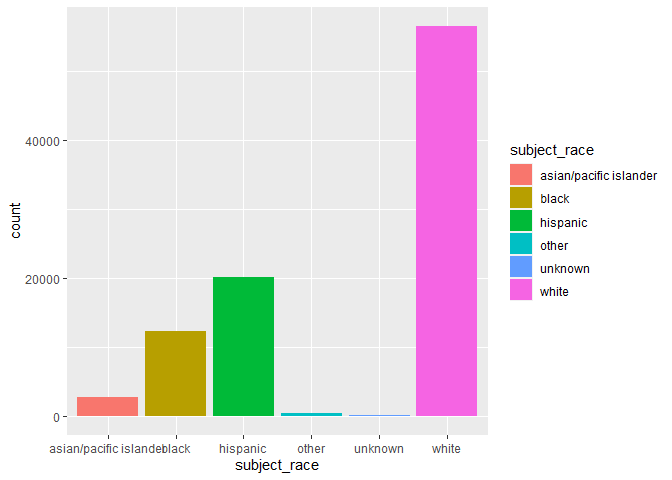
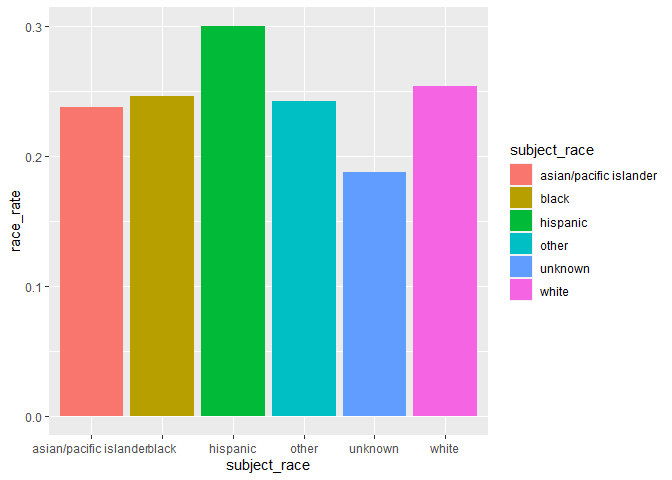
c12

diff --git a/challenges/c12-policing-assignment.md b/challenges/c12-policing-assignment.md
@@ -41,29 +41,28 @@ Massachusetts Highway Stops
       visuals (or tables) as you need, but make sure to check the trends
       across all of the <code>subject</code> variables. Answer the questions
       under <em>observations</em> below.</a>
-- <a href="#modeling" id="toc-modeling">Modeling</a>
-  - <a
-    href="#q6-run-the-following-code-and-interpret-the-regression-coefficients-answer-the-the-questions-under-observations-below"
-    id="toc-q6-run-the-following-code-and-interpret-the-regression-coefficients-answer-the-the-questions-under-observations-below"><strong>q6</strong>
-    Run the following code and interpret the regression coefficients. Answer
-    the the questions under <em>observations</em> below.</a>
-  - <a
-    href="#q7-re-fit-the-logistic-regression-from-q6-setting-white-as-the-reference-level-for-subject_race-interpret-the-the-model-terms-and-answer-the-questions-below"
-    id="toc-q7-re-fit-the-logistic-regression-from-q6-setting-white-as-the-reference-level-for-subject_race-interpret-the-the-model-terms-and-answer-the-questions-below"><strong>q7</strong>
-    Re-fit the logistic regression from q6 setting <code>"white"</code> as
-    the reference level for <code>subject_race</code>. Interpret the the
-    model terms and answer the questions below.</a>
-  - <a
-    href="#q8-re-fit-the-model-using-a-factor-indicating-the-presence-of-contraband-in-the-subjects-vehicle-answer-the-questions-under-observations-below"
-    id="toc-q8-re-fit-the-model-using-a-factor-indicating-the-presence-of-contraband-in-the-subjects-vehicle-answer-the-questions-under-observations-below"><strong>q8</strong>
-    Re-fit the model using a factor indicating the presence of contraband in
-    the subject’s vehicle. Answer the questions under <em>observations</em>
-    below.</a>
-  - <a
-    href="#q9-go-deeper-pose-at-least-one-more-question-about-the-data-and-fit-at-least-one-more-model-in-support-of-answering-that-question"
-    id="toc-q9-go-deeper-pose-at-least-one-more-question-about-the-data-and-fit-at-least-one-more-model-in-support-of-answering-that-question"><strong>q9</strong>
-    Go deeper: Pose at least one more question about the data and fit at
-    least one more model in support of answering that question.</a>
+    - <a
+      href="#q6-run-the-following-code-and-interpret-the-regression-coefficients-answer-the-the-questions-under-observations-below"
+      id="toc-q6-run-the-following-code-and-interpret-the-regression-coefficients-answer-the-the-questions-under-observations-below"><strong>q6</strong>
+      Run the following code and interpret the regression coefficients. Answer
+      the the questions under <em>observations</em> below.</a>
+    - <a
+      href="#q7-re-fit-the-logistic-regression-from-q6-setting-white-as-the-reference-level-for-subject_race-interpret-the-the-model-terms-and-answer-the-questions-below"
+      id="toc-q7-re-fit-the-logistic-regression-from-q6-setting-white-as-the-reference-level-for-subject_race-interpret-the-the-model-terms-and-answer-the-questions-below"><strong>q7</strong>
+      Re-fit the logistic regression from q6 setting <code>"white"</code> as
+      the reference level for <code>subject_race</code>. Interpret the the
+      model terms and answer the questions below.</a>
+    - <a
+      href="#q8-re-fit-the-model-using-a-factor-indicating-the-presence-of-contraband-in-the-subjects-vehicle-answer-the-questions-under-observations-below"
+      id="toc-q8-re-fit-the-model-using-a-factor-indicating-the-presence-of-contraband-in-the-subjects-vehicle-answer-the-questions-under-observations-below"><strong>q8</strong>
+      Re-fit the model using a factor indicating the presence of contraband in
+      the subject’s vehicle. Answer the questions under <em>observations</em>
+      below.</a>
+    - <a
+      href="#q9-go-deeper-pose-at-least-one-more-question-about-the-data-and-fit-at-least-one-more-model-in-support-of-answering-that-question"
+      id="toc-q9-go-deeper-pose-at-least-one-more-question-about-the-data-and-fit-at-least-one-more-model-in-support-of-answering-that-question"><strong>q9</strong>
+      Go deeper: Pose at least one more question about the data and fit at
+      least one more model in support of answering that question.</a>
   - <a
     href="#do-different-types-of-contraband-affect-arrest-rate-drugs-weapons-alcohol"
     id="toc-do-different-types-of-contraband-affect-arrest-rate-drugs-weapons-alcohol">Do
@@ -214,6 +213,14 @@ summary(df_data)
     ##  (Other): 109857                              
     ##  NA's   :   9814
 
+There are many interesting relevant data on police stops that have
+occured. Racial data, age, and sex seem to be the some of the most
+obvious things to look at. One thing that stands out the most is that
+there are a lot of NA values for outcomes that would logically be
+binary, like TRUE or FALSE. This could have something to do with how
+reports are actually logged into the dataset, or what the police even
+writes on the reports in the first place.
+
 Note that we have both a `subject_race` and `race_Raw` column. There are
 a few possibilities as to what `race_Raw` represents:
 
@@ -344,32 +351,46 @@ which is most plausible, based on your results?
 (Note: Create as many chunks and visuals as you need)
 
 ``` r
-df_arrested <- df_cleaned %>% 
-  filter(arrest_made == TRUE)
-
-df_arrested %>% 
-  ggplot(aes(x = subject_age)) +
-  geom_histogram()
+df_cleaned %>%
+  drop_na() %>% 
+  group_by(subject_age) %>% 
+  summarize(
+    total = n(),
+    arrests_made = sum(arrest_made),
+    age_rate = arrests_made / total
+  ) %>%
+    ggplot(aes(x = subject_age, y = age_rate)) +
+    geom_bar(stat = 'identity')
 ```
-
-    ## `stat_bin()` using `bins = 30`. Pick better value with `binwidth`.
-
-    ## Warning: Removed 2025 rows containing non-finite values (`stat_bin()`).
 
 ![](c12-policing-assignment_files/figure-gfm/unnamed-chunk-1-1.png)<!-- -->
 
 ``` r
-df_arrested %>% 
-  ggplot(aes(x = subject_sex, fill = subject_sex)) +
-  geom_bar()
+df_cleaned %>%
+  drop_na() %>% 
+  group_by(subject_sex) %>% 
+  summarize(
+    total = n(),
+    arrests_made = sum(arrest_made),
+    sex_rate = arrests_made / total
+  ) %>% 
+    ggplot(aes(x = subject_sex, y = sex_rate)) +
+    geom_col()
 ```
 
 ![](c12-policing-assignment_files/figure-gfm/unnamed-chunk-1-2.png)<!-- -->
 
 ``` r
-df_arrested %>% 
-  ggplot(aes(x = subject_race, fill = subject_race)) +
-  geom_bar()
+df_cleaned %>%
+  drop_na() %>% 
+  group_by(subject_race) %>% 
+  summarize(
+    total = n(),
+    arrests_made = sum(arrest_made),
+    race_rate = arrests_made / total
+  ) %>%
+  ggplot(aes(x = subject_race, y = race_rate, fill = subject_race)) +
+  geom_col()
 ```
 
 ![](c12-policing-assignment_files/figure-gfm/unnamed-chunk-1-3.png)<!-- -->
@@ -377,18 +398,14 @@ df_arrested %>%
 **Observations**:
 
 - How does `arrest_rate` tend to vary with `subject_age`?
-  - (Your response here) Arrest rates ramp up rapidly from the lowest
-    age to the mid 20s, then winds down more gradually after that.
+  - (Your response here) While fluctuations definitely exist, there
+    seems to be an ever so gradual increase.
 - How does `arrest_rate` tend to vary with `subject_sex`?
-  - (Your response here) Males are predominantly arrested.
+  - (Your response here) Males have a higher chance of being arrested
 - How does `arrest_rate` tend to vary with `subject_race`?
-  - (Your response here) `white` was the most frequently arrested race
-    by a substantial margin, followed by `hispanic`, `black`, and
-    `asia/pacific islander`.
-
-# Modeling
-
-<!-- -------------------------------------------------- -->
+  - (Your response here) `hispanic` had the biggest arrest rate, while
+    `white` and `black` followed. \# Modeling
+    <!-- -------------------------------------------------- -->
 
 We’re going to use a model to study the relationship between `subject`
 factors and arrest rate, but first we need to understand a bit more
@@ -533,12 +550,19 @@ fit_q8 %>% tidy()
 - How does controlling for found contraband affect the `subject_race`
   terms in the model?
   - (Your response here) While it does have correlation to the arrest
-    rate, discrepancy still exists across `subject_race` values.
+    rate, discrepancy still exists across `subject_race` values. For the
+    coefficients, `subject_racehispanic` has a factor of 0.22, while
+    `subject_raceblack` has a factor of -0.05, which is a significant
+    disparity, considering that there should never be one in the first
+    place if racial biases were to not exist.
 - What does the *finding of contraband* tell us about the stop? What
   does it *not* tell us about the stop?
-  - (Your response here) The finding of contraband is a stronger
-    indicator of arrest rate than race, but still does not prove that
-    racial bias is false.
+  - (Your response here) Looking at the coefficients, the finding of a
+    contraband means that it is highly likely for an arrest to be made.
+    However, the mere finding of the contraband leaves out lots of
+    underlying factors for the interaction. For example, the reasoning
+    for the police officer to be issuing a stop is still difficult to
+    identify.
 
 ### **q9** Go deeper: Pose at least one more question about the data and fit at least one more model in support of answering that question.
 
